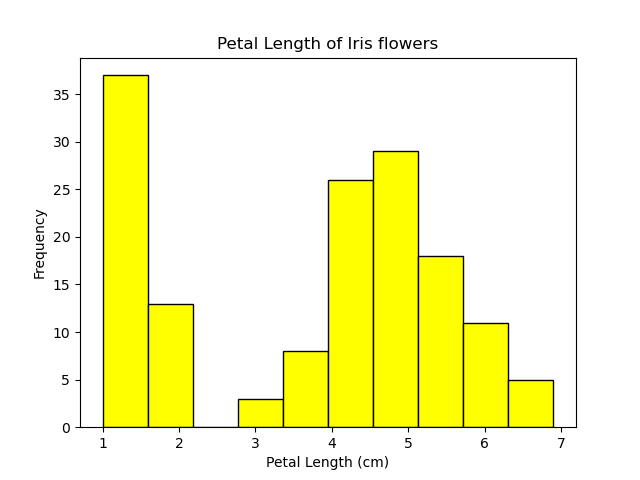
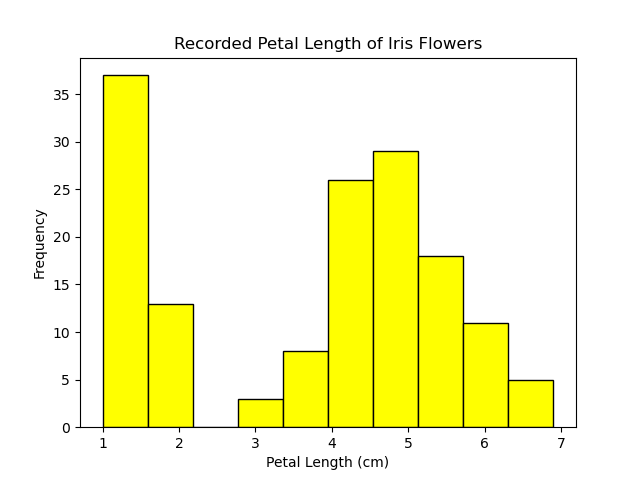
Improving comments on functions

Changed region(s): [[0.25, 0.0625, 0.75, 0.125]]

diff --git a/irisfunctions.py b/irisfunctions.py
@@ -2,47 +2,53 @@ import matplotlib.pyplot as plt
 import numpy as np
 
 
+# Function 1
+# This function allows us to read in a list of tuples, and get a description of each data frame in the list. 
+# It then writes these desriptions to a new txt file called irisdatasummary.txt, which will be saved in our repository.
+def datasummary(listoftuples): # we first define the function and the expected parameter that we will read in.
+    with open('irisdatasummary.txt', 'w') as ids: # we then create a file called irisdatasummary which we will write to, and shorten it to ids for further use.
+        for name, df in listoftuples: # this line iterates over the list of tuples, taking the first value of each tuple as the name of the data frame, and the second as the data frame itself.
+            description = df.describe() # we get a description of the data within each data frame using the describe() function available in the pandas library (insert source).
+            ids.write(f"Here is a description of the variable {name}:\n") # We clarify what the data is, using the "name" value extracted above.
+            ids.write(description.to_string()) # we use another pandas function, "to_string()", to convert the data frame to string representation (insert source).
+            ids.write("\n\n") # we add some line breaks between the description of each variable for easy reading
 
-def datasummary(listoftuples):
-    with open('Irisdatasummary.txt', 'w') as ivd: #function starts by creating a file called irisdatasummary which we will write to
-        for name, df in listoftuples:
-            description = df.describe()
-            ivd.write(f"Here is a description of the variable {name}:\n")
-            ivd.write(description.to_string())
-            ivd.write("\n\n")
+# Function 2
+# This function allows us to read in a list of tuples and create a histogram for each data frame in the list.
+# It then saves each histogram as a separate png file.
+def irisdatahist(listoftuples): # we first define the function and the expected parameter that will be read in.
+    for name, df in listoftuples: # as in function 1, this line iterates over the list of tuples, taking the first value of each tuple as the name of the data frame, and the second as the data frame itself.
+        plt.hist(df, bins=10, color='yellow', edgecolor='black') # we then use the hist() function to plot each data frame, using the data frame, the number of bins, the colour of the graph, and the colour of the edges as parameters (insert source).
+        plt.xlabel(f"{name} (cm)") # we label the x axis, using the .xlabel function and the name of the data frame as the parameter.
+        plt.ylabel('Frequency') # we label the y axis as "Frequency".
+        plt.title(f"{name} of Iris Flowers") # we give the histogram a title according to the x variable which is being iterated over.
+        plt.savefig(f"{name}.png") # we save each figure as a separate file, using the name of the data frame as the file name.
+        plt.show() # for our own reference, let's show each of them.
 
+# Function 3
+# This function allows us to read in all combinations of variable pairs and create a scatter plot for each combination.
+def irisscatter(variablecombinations): # we first define the function and the expected parameter that will be read in
+    for (name1, df1), (name2, df2) in variablecombinations: # this line iterates over each pair of variables (combinations) provided in the variablecombinations variable that was read in. Each iteration extracts two tuples: (name1, df1) and (name2, df2).
+        plt.scatter(df1, df2) # this line creates a scatter plot using the two data frames extracted above
+        plt.xlabel(name1) # we then use the first name for the x label...
+        plt.ylabel(name2) # ... and the second name for the y label
+        plt.title(f"{name1} vs {name2}") # We create a title, using the two variables used in each iteration.
+        plt.show() # for our own reference, let's show each of them.
 
-def irisdatahist(listoftuples):
-    for name, df in listoftuples:
-        plt.hist(df, bins=10, color='yellow', edgecolor='black')
-        plt.xlabel(f"{name} (cm)")
-        plt.ylabel('Frequency')
-        plt.title(f"{name} of Iris flowers")
-        plt.savefig(f"{name}.png")
-        plt.show()
-
-def irisscatter(variablecombinations):
-    for (name1, df1), (name2, df2) in variablecombinations:
-        plt.figure()  # Create a new figure for each scatter plot
-        plt.scatter(df1, df2)
-        plt.xlabel(name1)
-        plt.ylabel(name2)
-        plt.title(f"{name1} vs {name2}")
-        plt.show()
-
-def bestfit(x,y):
-
-    m, c = np.polyfit(x, y, 1) # The .polyfit function takes a set of data points (x, y) and fits a polynomial of specified degree to the data. The degree 1 here represents a straight line.
-    m, c # Here, "m" represents the slope, while "c" represents the intercept of the line. Let's make this clear for ease of reference by assigning them to more easy-to-understand variables.
+# Function 4
+# This function allows us to read in 2 data sets, plot them, and draw the best fit line through the data.
+def bestfit(x,y): # we first define the function and the expected parameters that will be read in.
+    m, c = np.polyfit(x, y, 1) # the .polyfit function (from numpy) takes a set of data points (x, y) and fits a polynomial of specified degree to the data. The degree 1 here represents a straight line (Insert source).
+    # Here, "m" represents the slope, while "c" represents the intercept of the line. Let's make this clear for ease of reference by assigning them to more easy-to-understand variables.
     slope = m
     intercept = c
-    print(f'Slope: {slope}')
-    print(f'Intercept: {intercept}')
+    print(f'Slope: {slope}') # we print out the slope for reference
+    print(f'Intercept: {intercept}') # we print out the intercept for reference
 
-    fig, ax = plt.subplots()
-    ax.plot(x, y, 'x')
-    ax.plot(x, slope * x + intercept, 'r-') # This time we're adding another plot command to insert our best fit line, with "r-" representing a solid red line.
-    ax.set_xlabel("var 1")
-    ax.set_ylabel("var 2")
-    plt.show()
+    plt.plot(x, y, 'o') # We plot the data points. When you call plt.plot with just x and y data points and a marker style (like "o" in this case), it creates a scatter plot by plotting the points without connecting them through lines. (Insert source)
+    plt.plot(x, slope * x + intercept, 'r-', label="Best Fit Line") # This time we're adding another plot command in the same axis to insert our best fit line, with "r-" representing a solid red line.
+    plt.xlabel("X Values") # Since the x label is dependent on what the user will enter, it's easier to use a generic label.
+    plt.ylabel("Y Values") # Likewise, the y label is generic.
+    plt.title("Best Fit Line for Chosen Variables") # We then create a generic title.
+    plt.show() # For our own reference, let's take a look.
 

diff --git a/analysis.py b/analysis.py
@@ -66,7 +66,7 @@ irisscatter(varcombinations)
 
 # Best Fit Line
 from irisfunctions import bestfit
-print("To see the best fit line for a combination of variables, please choose the corresponding numbers")
+print("To see the best fit line for a combination of variables, please choose the corresponding numbers.")
 x = input("Please input your first variable: \n\n1.Sepal Length\n\n2.Sepal Width\n\n3.Petal Length\n\n4.Petal Width\n\n")
 y = input("\n\nPlease input your second variable: \n\n1.Sepal Length\n\n2.Sepal Width\n\n3.Petal Length\n\n4.Petal Width\n\n")
 
